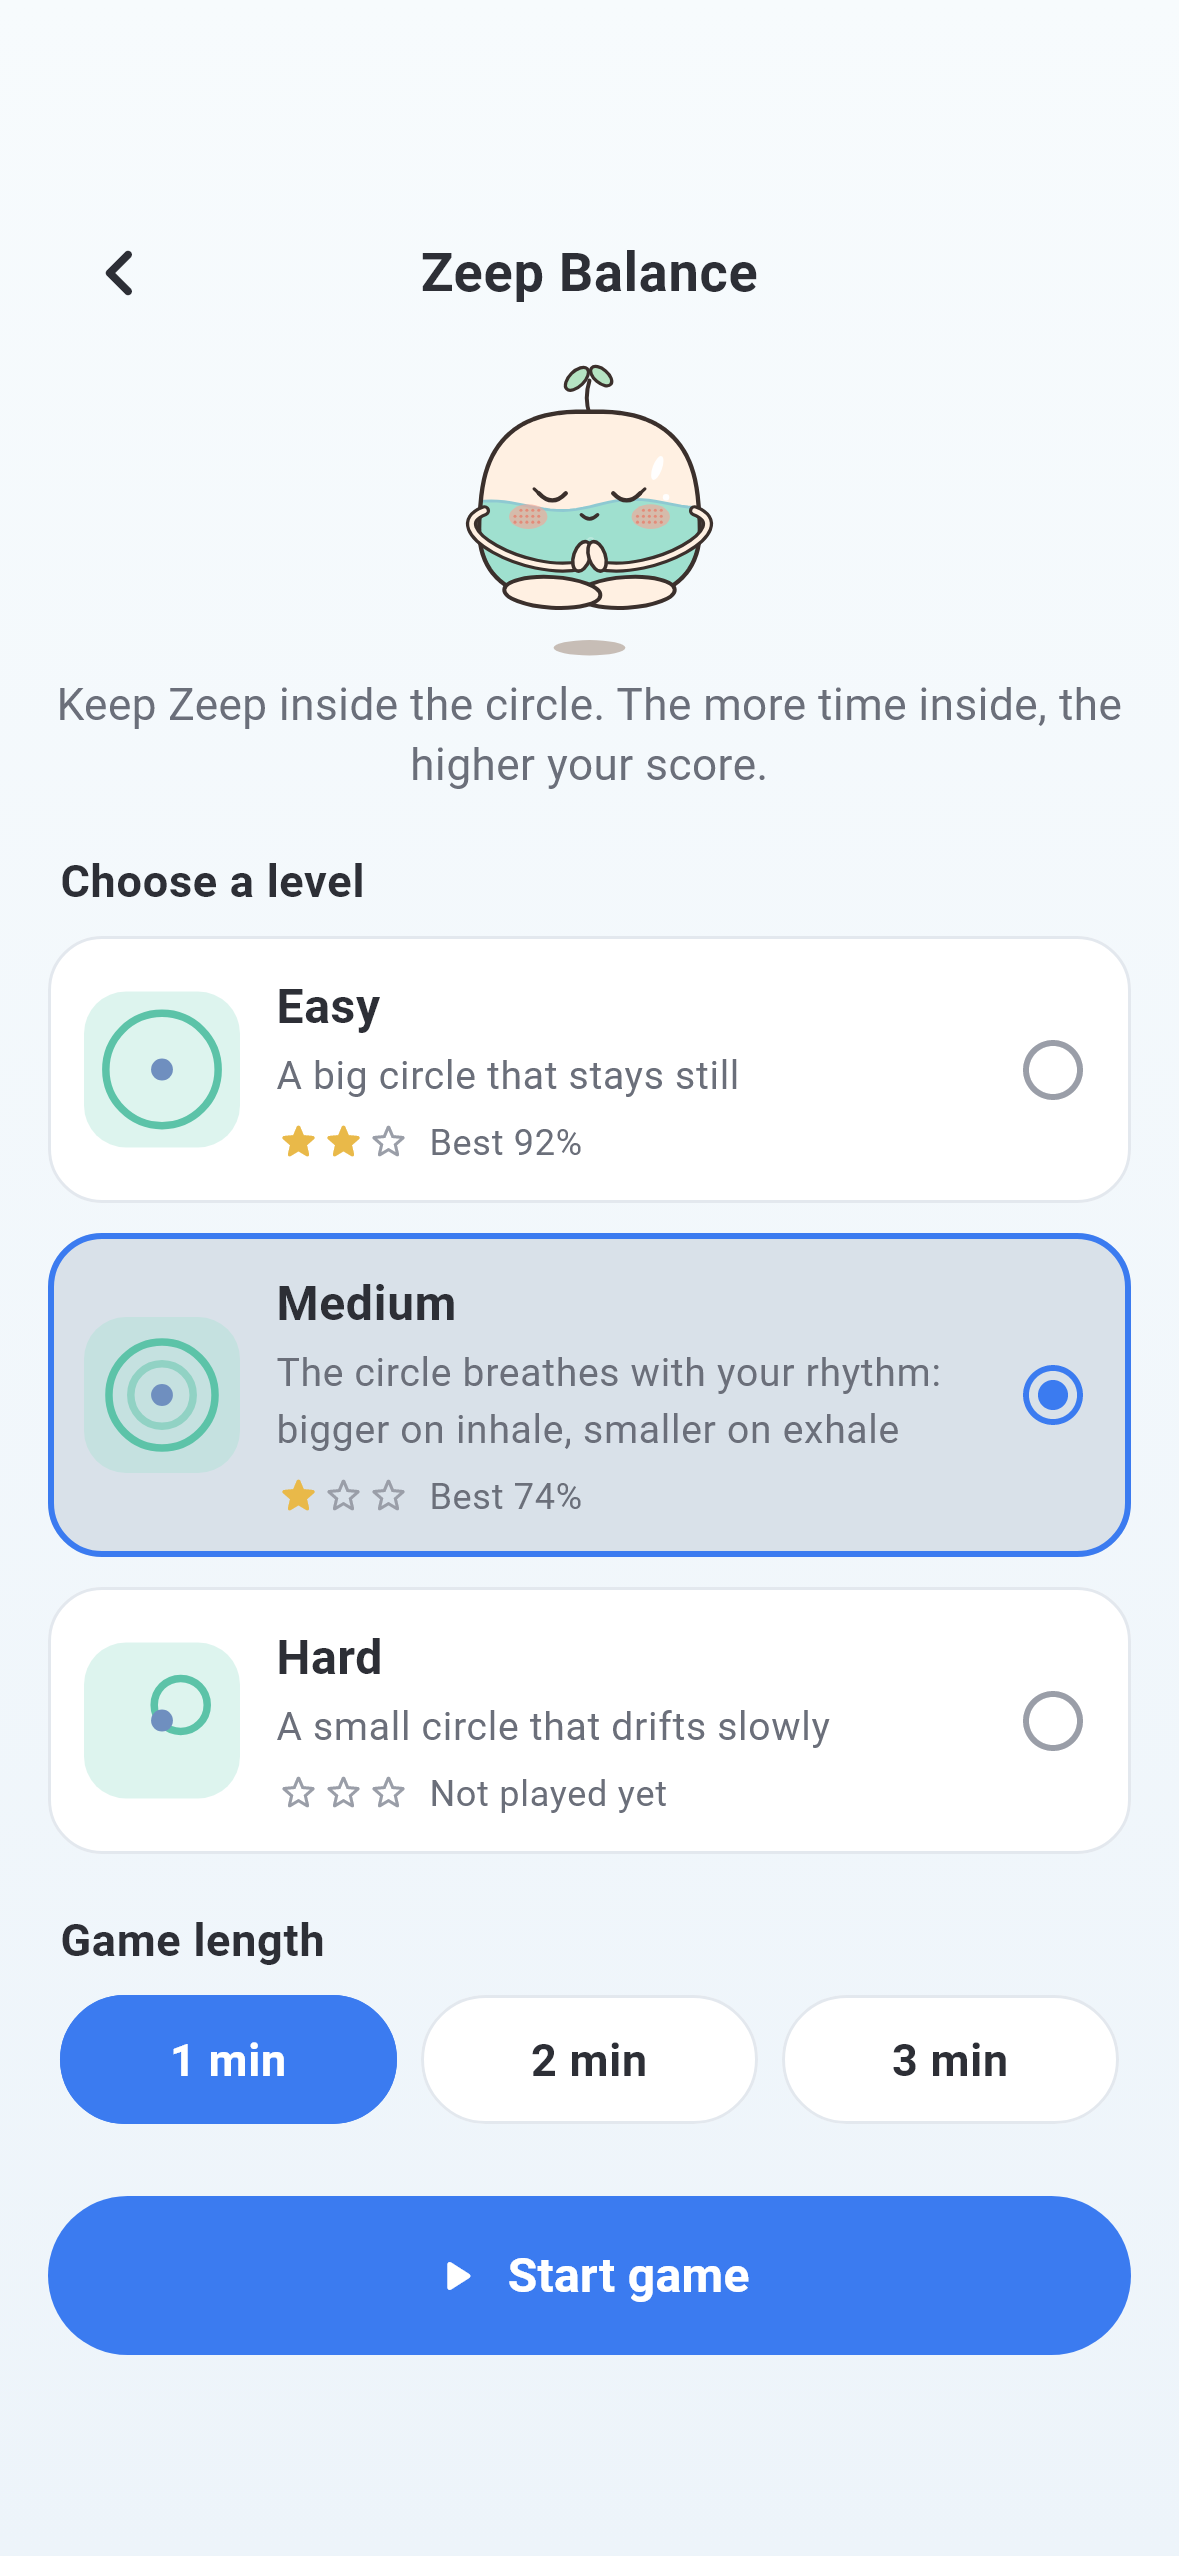
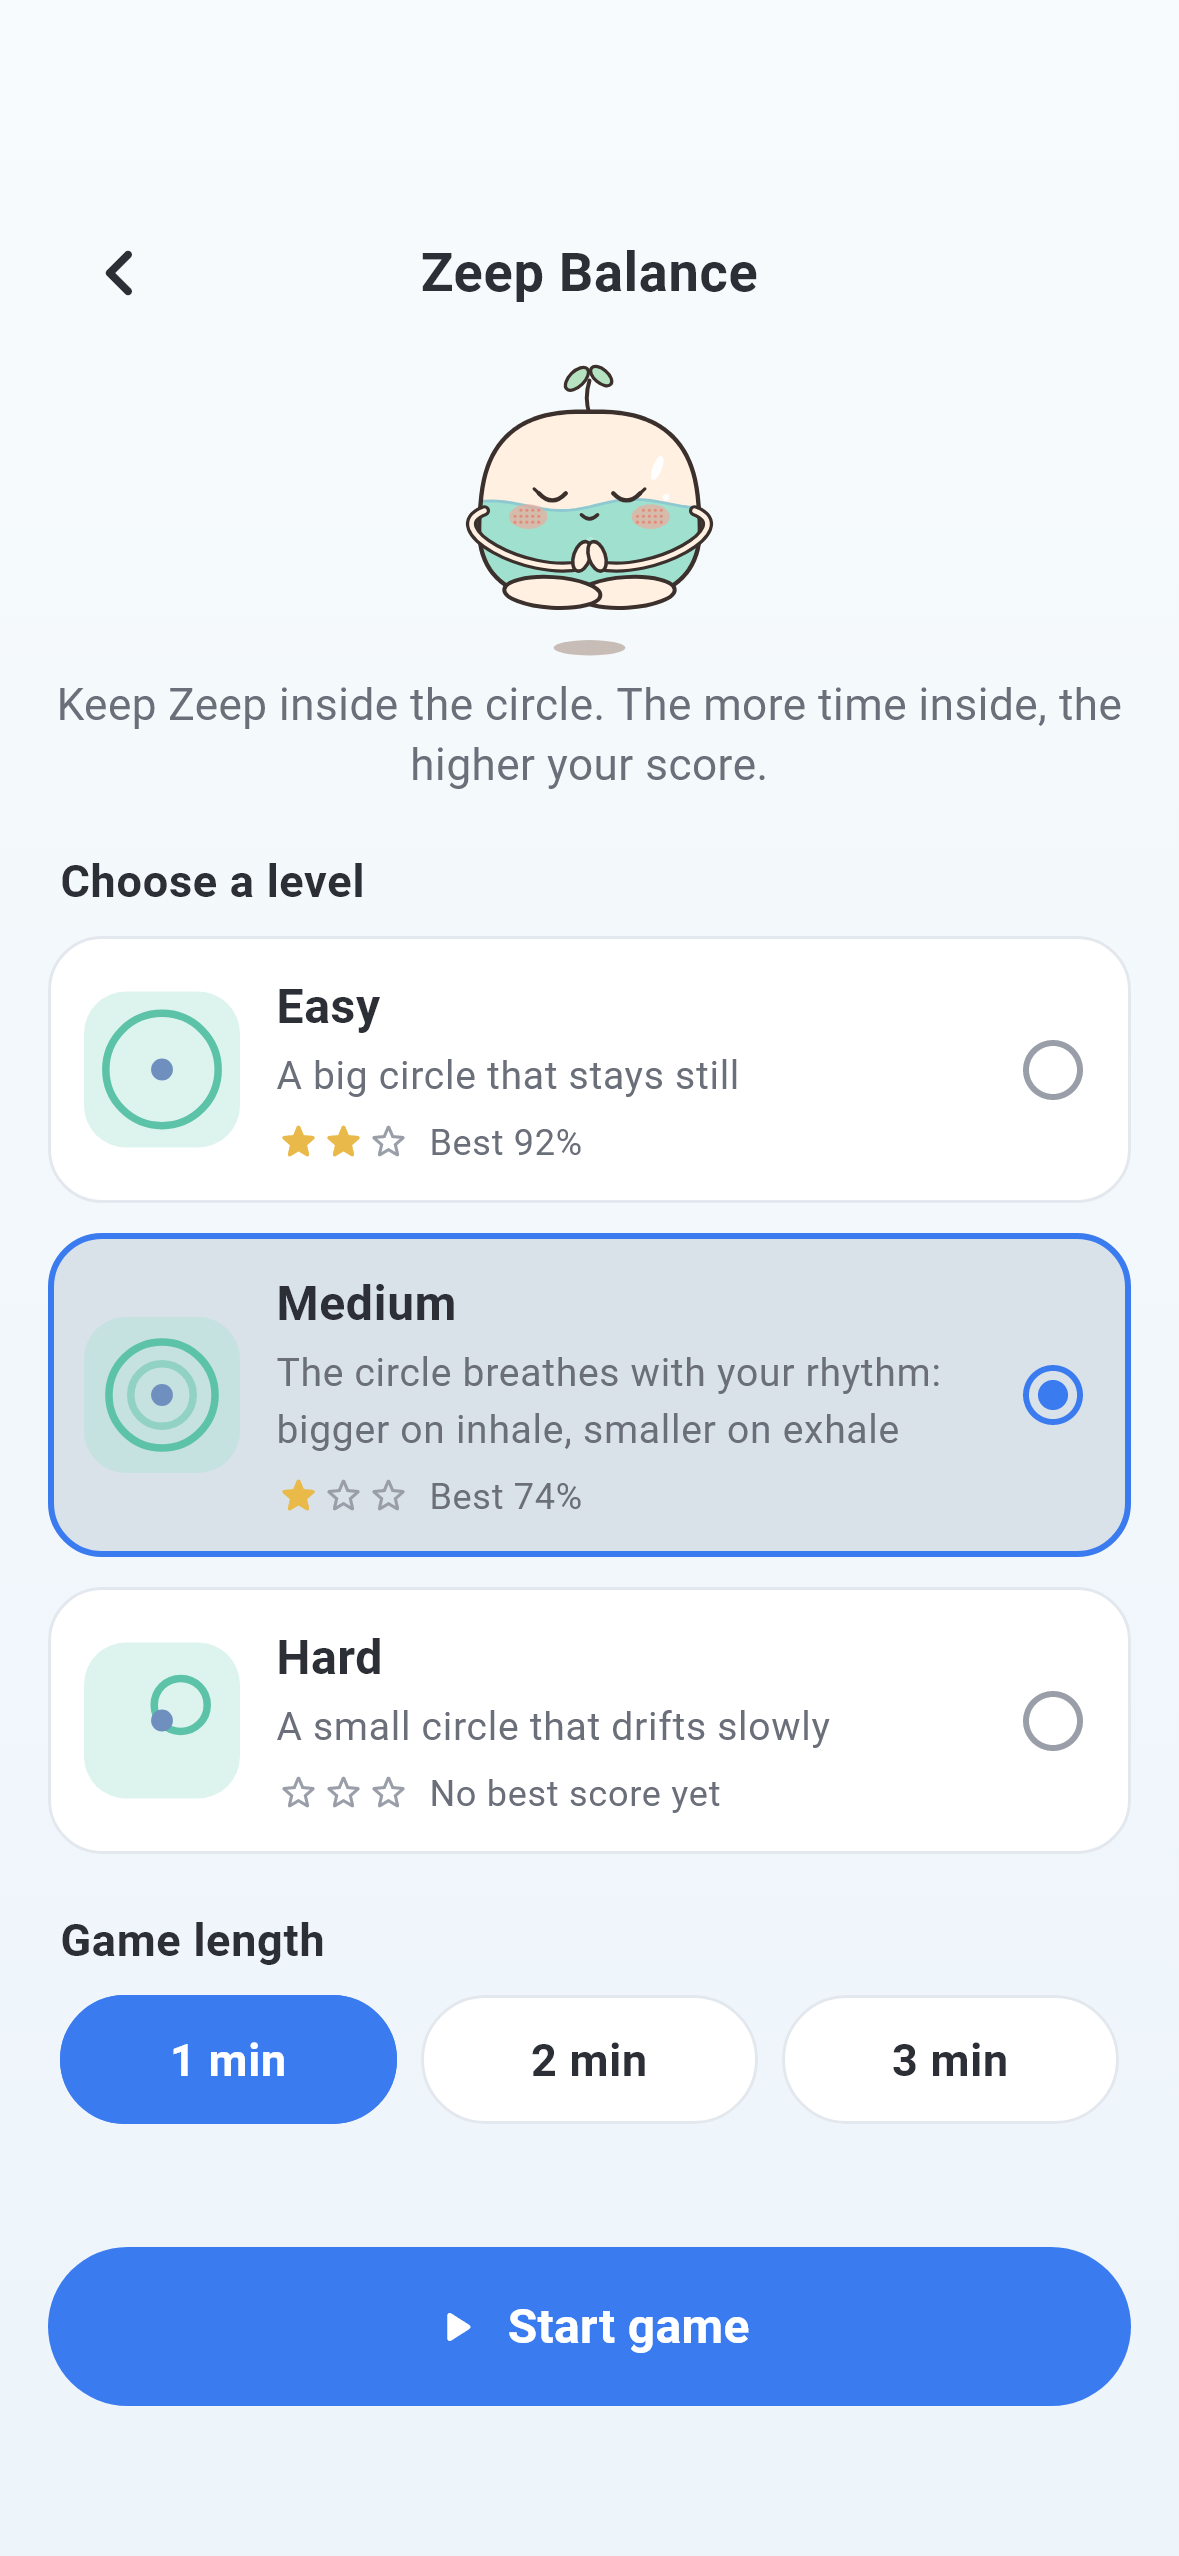
Zeep Balance: QA fixes (phase pulses, sensor on results, labels, walls)
- B1 medium level: a phase pulse the haptics service can't play yet (an
  edge pulse just played) waits and plays a moment later; edge pulses
  wait for it. No phase pulse is lost.
- B2 sensor failing on the results screen keeps the results; Play again
  then shows the no-sensor message
- B3 "No best score yet" instead of "Not played yet" (a stopped game has
  been played)
- B4 Zeep's arms no longer get cut by the board edge at the walls
- Level select: Start button pinned at the bottom, the rest scrolls

Changed region(s): [[0.0305, 0.8345, 0.9771, 0.9581], [0.3969, 0.68, 0.6107, 0.7109]]

diff --git a/lib/screens/balance_menu_screen.dart b/lib/screens/balance_menu_screen.dart
@@ -40,82 +40,96 @@ class BalanceMenuScreen extends StatelessWidget {
               return Center(
                 child: ConstrainedBox(
                   constraints: const BoxConstraints(maxWidth: 560),
-                  child: ListView(
-                    padding: const EdgeInsets.fromLTRB(16, 8, 16, 24),
+                  // the Start button stays pinned at the bottom; the rest scrolls
+                  child: Column(
+                    crossAxisAlignment: CrossAxisAlignment.stretch,
                     children: [
-                      Row(
-                        children: [
-                          IconButton(
-                            tooltip: s.back,
-                            onPressed: () => Navigator.of(context).maybePop(),
-                            icon: const Icon(Icons.chevron_left_rounded, size: 32, color: ZeepColors.text),
-                          ),
-                          Expanded(
-                            child: Text(
-                              s.gameName,
-                              textAlign: TextAlign.center,
-                              style: const TextStyle(fontSize: 18, fontWeight: FontWeight.w700, color: ZeepColors.text),
+                      Expanded(
+                        child: ListView(
+                          padding: const EdgeInsets.fromLTRB(16, 8, 16, 12),
+                          children: [
+                            Row(
+                              children: [
+                                IconButton(
+                                  tooltip: s.back,
+                                  onPressed: () => Navigator.of(context).maybePop(),
+                                  icon: const Icon(Icons.chevron_left_rounded, size: 32, color: ZeepColors.text),
+                                ),
+                                Expanded(
+                                  child: Text(
+                                    s.gameName,
+                                    textAlign: TextAlign.center,
+                                    style: const TextStyle(
+                                      fontSize: 18,
+                                      fontWeight: FontWeight.w700,
+                                      color: ZeepColors.text,
+                                    ),
+                                  ),
+                                ),
+                                const SizedBox(width: 48),
+                              ],
                             ),
-                          ),
-                          const SizedBox(width: 48),
-                        ],
-                      ),
-                      const SizedBox(height: 6),
-                      const Center(child: ZeepAvatar(tint: ZeepColors.mint, size: 96)),
-                      const SizedBox(height: 8),
-                      Text(
-                        s.gameHowTo,
-                        textAlign: TextAlign.center,
-                        style: const TextStyle(fontSize: 14.5, color: ZeepColors.textSoft, height: 1.4),
-                      ),
-                      const SizedBox(height: 18),
-                      _Heading(s.chooseLevel),
-                      for (final l in BalanceLevel.values)
-                        Padding(
-                          padding: const EdgeInsets.only(bottom: 10),
-                          child: _LevelCard(
-                            level: l,
-                            best: st.gameBest[l.index],
-                            selected: l == level,
-                            onTap: () => st.update((x) => x.gameLevel = l.index),
-                          ),
-                        ),
-                      const SizedBox(height: 8),
-                      _Heading(s.gameLength),
-                      Row(
-                        children: [
-                          for (final m in gameDurations)
-                            Expanded(
-                              child: Padding(
-                                padding: const EdgeInsets.symmetric(horizontal: 4),
-                                child: _Chip(
-                                  label: s.minutes(m),
-                                  selected: st.gameMinutes == m,
-                                  onTap: () => st.update((x) => x.gameMinutes = m),
+                            const SizedBox(height: 6),
+                            const Center(child: ZeepAvatar(tint: ZeepColors.mint, size: 96)),
+                            const SizedBox(height: 8),
+                            Text(
+                              s.gameHowTo,
+                              textAlign: TextAlign.center,
+                              style: const TextStyle(fontSize: 14.5, color: ZeepColors.textSoft, height: 1.4),
+                            ),
+                            const SizedBox(height: 18),
+                            _Heading(s.chooseLevel),
+                            for (final l in BalanceLevel.values)
+                              Padding(
+                                padding: const EdgeInsets.only(bottom: 10),
+                                child: _LevelCard(
+                                  level: l,
+                                  best: st.gameBest[l.index],
+                                  selected: l == level,
+                                  onTap: () => st.update((x) => x.gameLevel = l.index),
                                 ),
                               ),
+                            const SizedBox(height: 8),
+                            _Heading(s.gameLength),
+                            Row(
+                              children: [
+                                for (final m in gameDurations)
+                                  Expanded(
+                                    child: Padding(
+                                      padding: const EdgeInsets.symmetric(horizontal: 4),
+                                      child: _Chip(
+                                        label: s.minutes(m),
+                                        selected: st.gameMinutes == m,
+                                        onTap: () => st.update((x) => x.gameMinutes = m),
+                                      ),
+                                    ),
+                                  ),
+                              ],
                             ),
-                        ],
+                          ],
+                        ),
                       ),
-                      const SizedBox(height: 24),
-                      FilledButton.icon(
-                        onPressed: () => Navigator.of(context).push(
-                          MaterialPageRoute<void>(
-                            builder: (_) => BalanceGameScreen(
-                              app: app,
-                              level: level,
-                              minutes: st.gameMinutes,
-                              source: source,
-                              rotationSource: rotationSource,
+                      Padding(
+                        padding: const EdgeInsets.fromLTRB(16, 8, 16, 16),
+                        child: FilledButton.icon(
+                          onPressed: () => Navigator.of(context).push(
+                            MaterialPageRoute<void>(
+                              builder: (_) => BalanceGameScreen(
+                                app: app,
+                                level: level,
+                                minutes: st.gameMinutes,
+                                source: source,
+                                rotationSource: rotationSource,
+                              ),
                             ),
                           ),
-                        ),
-                        icon: const Icon(Icons.play_arrow_rounded),
-                        label: Text(s.startGame, style: const TextStyle(fontSize: 16, fontWeight: FontWeight.w700)),
-                        style: FilledButton.styleFrom(
-                          backgroundColor: ZeepColors.blue,
-                          padding: const EdgeInsets.symmetric(vertical: 15),
-                          shape: const StadiumBorder(),
+                          icon: const Icon(Icons.play_arrow_rounded),
+                          label: Text(s.startGame, style: const TextStyle(fontSize: 16, fontWeight: FontWeight.w700)),
+                          style: FilledButton.styleFrom(
+                            backgroundColor: ZeepColors.blue,
+                            padding: const EdgeInsets.symmetric(vertical: 15),
+                            shape: const StadiumBorder(),
+                          ),
                         ),
                       ),
                     ],

diff --git a/lib/screens/balance_game_screen.dart b/lib/screens/balance_game_screen.dart
@@ -83,6 +83,13 @@ class _BalanceGameScreenState extends State<BalanceGameScreen>
   bool _logged = false, _saved = false, _newBest = false;
   bool _inside = true;
 
+  /// Medium level: a phase pulse the haptics service could not play yet.
+  HapticPattern? _pendingPhase;
+
+  /// The sensor failed while the results were showing: Play again must show
+  /// the no-sensor message instead of starting.
+  bool _sensorLost = false;
+
   /// Popped (back button, swipe or Done): the route animates out, nothing
   /// more may happen.
   bool _leaving = false;
@@ -149,6 +156,11 @@ class _BalanceGameScreenState extends State<BalanceGameScreen>
   /// No sensor, or the sensor failed (also mid-game): stop and say so.
   void _unavailable() {
     if (!mounted || _stage == _Stage.unavailable) return;
+    if (_stage == _Stage.finished) {
+      // keep the results on screen; Play again will say there's no sensor
+      _sensorLost = true;
+      return;
+    }
     _timeout?.cancel();
     _rotationTimer?.cancel();
     _sub?.cancel();
@@ -174,10 +186,17 @@ class _BalanceGameScreenState extends State<BalanceGameScreen>
   }
 
   void _playAgain() {
+    if (_sensorLost) {
+      _sensorLost = false;
+      _stage = _Stage.waiting; // so _unavailable switches the screen
+      _unavailable();
+      return;
+    }
     setState(() {
       _played = 0;
       _startedAt = null;
       _logged = _saved = _newBest = false;
+      _pendingPhase = null;
       _score.reset();
       _breath.stop();
       _startCountdown();
@@ -250,9 +269,15 @@ class _BalanceGameScreenState extends State<BalanceGameScreen>
       EdgeEvent.entered => HapticPattern.edgeIn,
       null => null,
     };
-    // the service skips a pulse right after another (e.g. a medium-level
-    // phase pulse): then try again after the guard
-    if (edge != null && !app.haptics.fire(edge, app.time) && app.haptics.enabled) _edge.dropped();
+    // A phase pulse waiting for the service's 250 ms guard comes first: it
+    // is played as soon as the guard allows, and edge pulses wait for it.
+    final phase = _pendingPhase;
+    if (phase != null && app.haptics.fire(phase, app.time)) _pendingPhase = null;
+    if (edge != null) {
+      final played = _pendingPhase == null && app.haptics.fire(edge, app.time);
+      // skipped (busy with another pulse): try again after the edge guard
+      if (!played && app.haptics.enabled) _edge.dropped();
+    }
     if (_played >= _length) _finish(completed: true);
   }
 
@@ -266,7 +291,9 @@ class _BalanceGameScreenState extends State<BalanceGameScreen>
         Phase.exhale => HapticPattern.exhaleStart,
         Phase.rest => null,
       };
-      if (p != null) app.haptics.fire(p, app.time);
+      // a phase pulse is never lost: if the service is busy (an edge pulse
+      // just played), it is played a moment later from _play
+      if (p != null && !app.haptics.fire(p, app.time) && app.haptics.enabled) _pendingPhase = p;
     }
   }
 
@@ -494,8 +521,9 @@ class _BalanceGameScreenState extends State<BalanceGameScreen>
         final w = box.maxWidth, h = box.maxHeight;
         final zeep = (w < h ? w : h * 1.0).clamp(0.0, double.infinity) * 0.2;
         final zeepSize = zeep.clamp(56.0, 112.0);
-        // Zeep's body spans ~70 % of its avatar box: keep that inside
-        final r = zeepSize * 0.36;
+        // Zeep's body spans ~70 % of its avatar box and the arms a bit more:
+        // keep all of it inside the board
+        final r = zeepSize * 0.46;
         _tilt.ball.setBounds(w / 2 - r - 6, h / 2 - r - 6);
         _circle = circleFor(
           widget.level,

diff --git a/test/balance_game_test.dart b/test/balance_game_test.dart
@@ -404,6 +404,8 @@ void main() {
     await t.pumpWidget(wrap(BalanceMenuScreen(app: testApp, source: src, rotationSource: FakeRotation())));
     expect(find.text(S.en.noBestYet), findsWidgets);
     await t.tap(find.text(S.en.levelName(BalanceLevel.hard)));
+    // the test font is wider than the real one: scroll the chips into view
+    await t.scrollUntilVisible(find.text(S.en.minutes(3)), 100, scrollable: find.byType(Scrollable).first);
     await t.tap(find.text(S.en.minutes(3)));
     await t.pump();
     expect(testApp.settings.gameLevel, 2);
@@ -509,6 +511,38 @@ void main() {
     await src.controller.close();
     await frames(t, 0.2);
     expect(find.text(S.en.noTiltSensor), findsOneWidget);
+    await t.pumpWidget(const SizedBox());
+  });
+
+  // ------------------------------------------------------------ QA fixes (B1, B2)
+
+  testWidgets('medium, swaying across the edge: no phase pulse is lost (QA B1)', (t) async {
+    final src = await startPlaying(t, level: BalanceLevel.medium);
+    // 4-2-6 rhythm: inhale 0 s, hold 4 s, exhale 6 s, inhale 12 s
+    for (var i = 0; i < 44; i++) {
+      src.controller.add(Vec3(i.isEven ? -6 : 6, 0, 7.5));
+      await frames(t, 0.3);
+    }
+    final f = haptics().fired;
+    expect(f.where((p) => p == HapticPattern.edgeOut || p == HapticPattern.edgeIn), isNotEmpty);
+    expect(f.where((p) => p == HapticPattern.inhaleStart), hasLength(2));
+    expect(f.where((p) => p == HapticPattern.holdStart), hasLength(1));
+    expect(f.where((p) => p == HapticPattern.exhaleStart), hasLength(1));
+    await t.pumpWidget(const SizedBox());
+    unawaited(src.controller.close());
+  });
+
+  testWidgets('sensor fails on the results screen: results stay, Play again says no sensor (QA B2)', (t) async {
+    final src = await startPlaying(t);
+    await frames(t, 61);
+    expect(find.text(S.en.gameComplete), findsOneWidget);
+    src.controller.addError(StateError('sensor lost'));
+    await frames(t, 0.2);
+    expect(find.text(S.en.gameComplete), findsOneWidget);
+    await t.tap(find.text(S.en.playAgain));
+    await frames(t, 0.2);
+    expect(find.text(S.en.noTiltSensor), findsOneWidget);
+    expect(testApp.history.records, hasLength(1));
     await t.pumpWidget(const SizedBox());
   });
 }

diff --git a/lib/l10n/strings.dart b/lib/l10n/strings.dart
@@ -182,7 +182,7 @@ class S {
   String get gameLength => _('Game length', 'เวลาเล่น');
   String get startGame => _('Start game', 'เริ่มเล่น');
   String bestScore(int p) => _('Best $p%', 'ดีที่สุด $p%');
-  String get noBestYet => _('Not played yet', 'ยังไม่เคยเล่น');
+  String get noBestYet => _('No best score yet', 'ยังไม่มีสถิติ');
   String get gameHowTo => _(
     'Keep Zeep inside the circle. The more time inside, the higher your score.',
     'ประคอง Zeep ให้อยู่ในวง ยิ่งอยู่ในวงนาน คะแนนยิ่งสูง',
